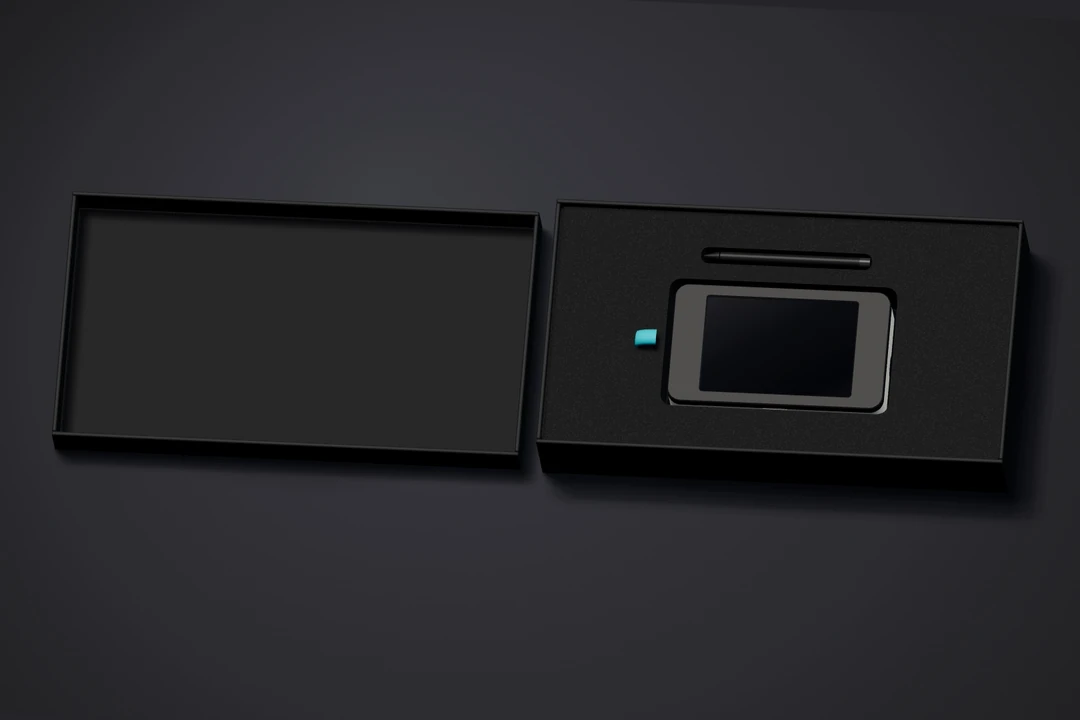
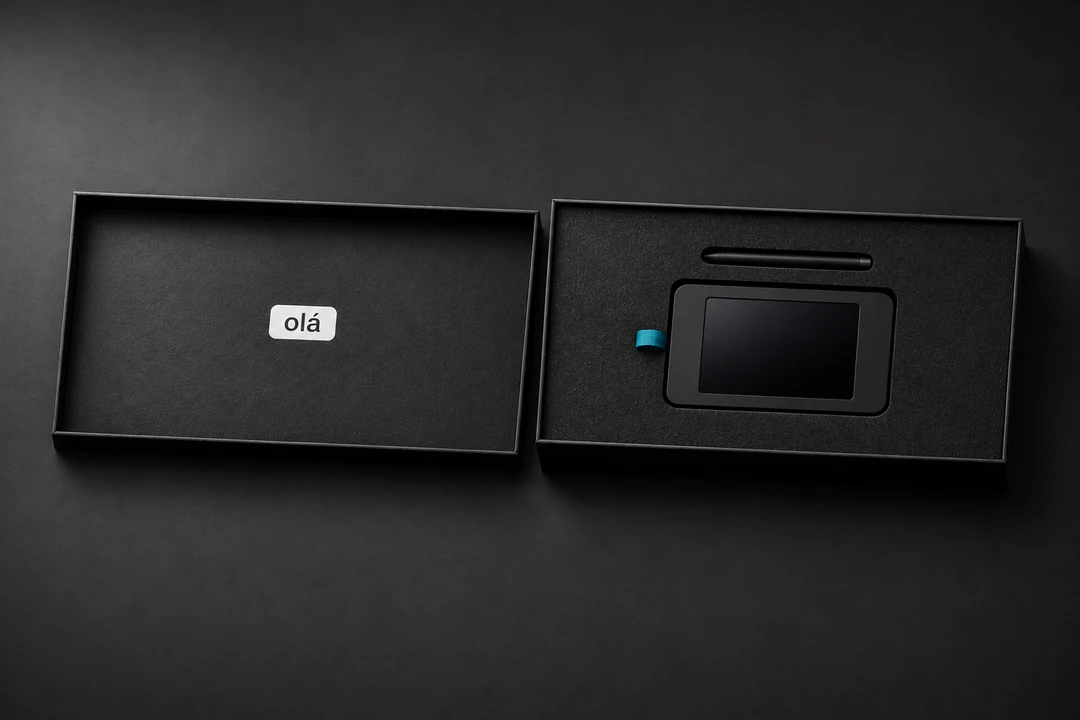
fix(site): give Touch packaging a photographic finish

diff --git a/docs/index.html b/docs/index.html
@@ -420,8 +420,8 @@ footer a { color: var(--text-2); }
       <p>Deck e caneta juntos no berço. Embaixo: face extra, suportes de mesa e de tubo e cabo USB-C.</p>
       <div class="pack-shots">
         <a href="img/embalagens/touch-lacrada.webp" data-pack-image="DIV Deck Touch · Caixa lacrada"><img src="img/embalagens/touch-lacrada.webp" alt="" width="1080" height="720" loading="lazy" decoding="async">Caixa lacrada</a>
-        <a href="img/embalagens/touch-aberta.webp?v=cad-v6" data-pack-image="DIV Deck Touch · Caixa aberta"><img src="img/embalagens/touch-aberta.webp?v=cad-v6" alt="" width="1080" height="720" loading="lazy" decoding="async">Caixa aberta</a>
-        <a href="img/embalagens/touch-acessorios.webp?v=cad-v6" data-pack-image="DIV Deck Touch · Acessórios"><img src="img/embalagens/touch-acessorios.webp?v=cad-v6" alt="" width="1080" height="720" loading="lazy" decoding="async">Acessórios</a>
+        <a href="img/embalagens/touch-aberta.webp?v=touch-v6-foto" data-pack-image="DIV Deck Touch · Caixa aberta"><img src="img/embalagens/touch-aberta.webp?v=touch-v6-foto" alt="" width="1080" height="720" loading="lazy" decoding="async">Caixa aberta</a>
+        <a href="img/embalagens/touch-acessorios.webp?v=touch-v6-foto" data-pack-image="DIV Deck Touch · Acessórios"><img src="img/embalagens/touch-acessorios.webp?v=touch-v6-foto" alt="" width="1080" height="720" loading="lazy" decoding="async">Acessórios</a>
       </div>
     </article>
   </div>

diff --git a/web/index.template.html b/web/index.template.html
@@ -420,8 +420,8 @@ footer a { color: var(--text-2); }
       <p>Deck e caneta juntos no berço. Embaixo: face extra, suportes de mesa e de tubo e cabo USB-C.</p>
       <div class="pack-shots">
         <a href="img/embalagens/touch-lacrada.webp" data-pack-image="DIV Deck Touch · Caixa lacrada"><img src="img/embalagens/touch-lacrada.webp" alt="" width="1080" height="720" loading="lazy" decoding="async">Caixa lacrada</a>
-        <a href="img/embalagens/touch-aberta.webp?v=cad-v6" data-pack-image="DIV Deck Touch · Caixa aberta"><img src="img/embalagens/touch-aberta.webp?v=cad-v6" alt="" width="1080" height="720" loading="lazy" decoding="async">Caixa aberta</a>
-        <a href="img/embalagens/touch-acessorios.webp?v=cad-v6" data-pack-image="DIV Deck Touch · Acessórios"><img src="img/embalagens/touch-acessorios.webp?v=cad-v6" alt="" width="1080" height="720" loading="lazy" decoding="async">Acessórios</a>
+        <a href="img/embalagens/touch-aberta.webp?v=touch-v6-foto" data-pack-image="DIV Deck Touch · Caixa aberta"><img src="img/embalagens/touch-aberta.webp?v=touch-v6-foto" alt="" width="1080" height="720" loading="lazy" decoding="async">Caixa aberta</a>
+        <a href="img/embalagens/touch-acessorios.webp?v=touch-v6-foto" data-pack-image="DIV Deck Touch · Acessórios"><img src="img/embalagens/touch-acessorios.webp?v=touch-v6-foto" alt="" width="1080" height="720" loading="lazy" decoding="async">Acessórios</a>
       </div>
     </article>
   </div>
